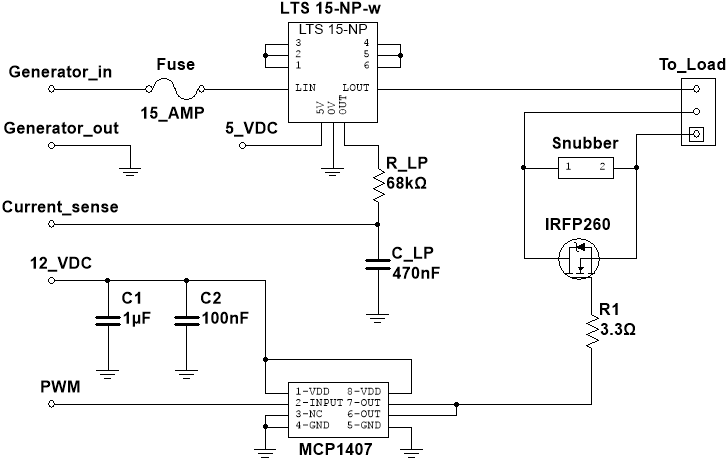
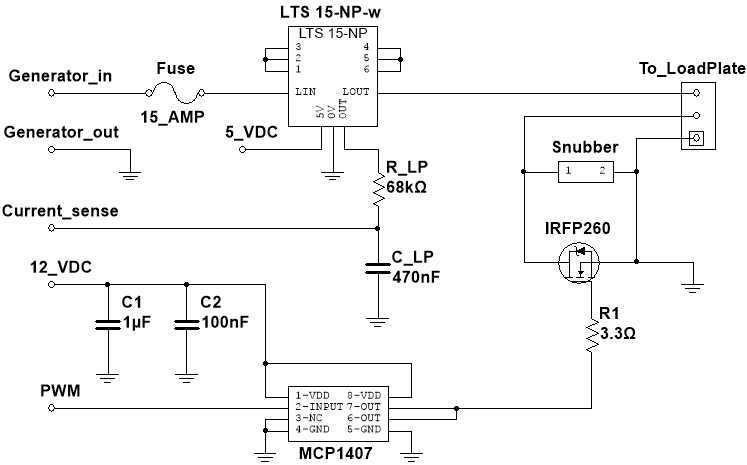
Sk8ter boi

diff --git a/Latex/Documentation_RR/Hardware/LoadSystem.tex b/Latex/Documentation_RR/Hardware/LoadSystem.tex
@@ -32,7 +32,7 @@ A short explanation for each subsystem seen in the Load System's IBD is given be
 \input{Hardware/LoadSystem/SuperCapacitor}
 
 \subsection{Implementation}
-Text
+The individual designs from the previous sections are used to design the complete Load System. This subsystem differs from other subsystems in Rolling Road due to the fact that some parts of the subsystem is located inside the Control-box and other parts are on the Load-plate. The circuit inside the Control-box is seen in the diagram below:
 
 \begin{figure}[H]
 	\centering
@@ -41,6 +41,14 @@ Text
 	\label{fig:LoadSystemCircuit}
 \end{figure}
 
+The Super Capacitor and the Load are placed on the Load-plate due to the size of the components. The Control-box and the Load-plate can be connected using banana-plugs which are color-coded for simplicity. The diagram above and below are made such that the 3-plug-connectors should be connected by lining them up.
+
+\begin{figure}[H]
+	\centering
+	\includegraphics[width=0.35\linewidth]{Hardware/LoadSystem/LoadPlate}
+	\caption{The Load and Super Capacitor implemented on the Load-plate}
+	\label{fig:LoadPlateCircuit}
+\end{figure}
 
 \subsection{Unity test}
 Text

diff --git a/Latex/Documentation_RR/Hardware/LoadSystem/Snubber.tex b/Latex/Documentation_RR/Hardware/LoadSystem/Snubber.tex
@@ -41,3 +41,4 @@ The filter's transfer function in the s-domain can be found using the Laplace tr
 		&= 0.683
 	\end{split}
 \end{equation}
+As the damping ratio lies between 0 and 1 the system will be underdamped - but stable.
